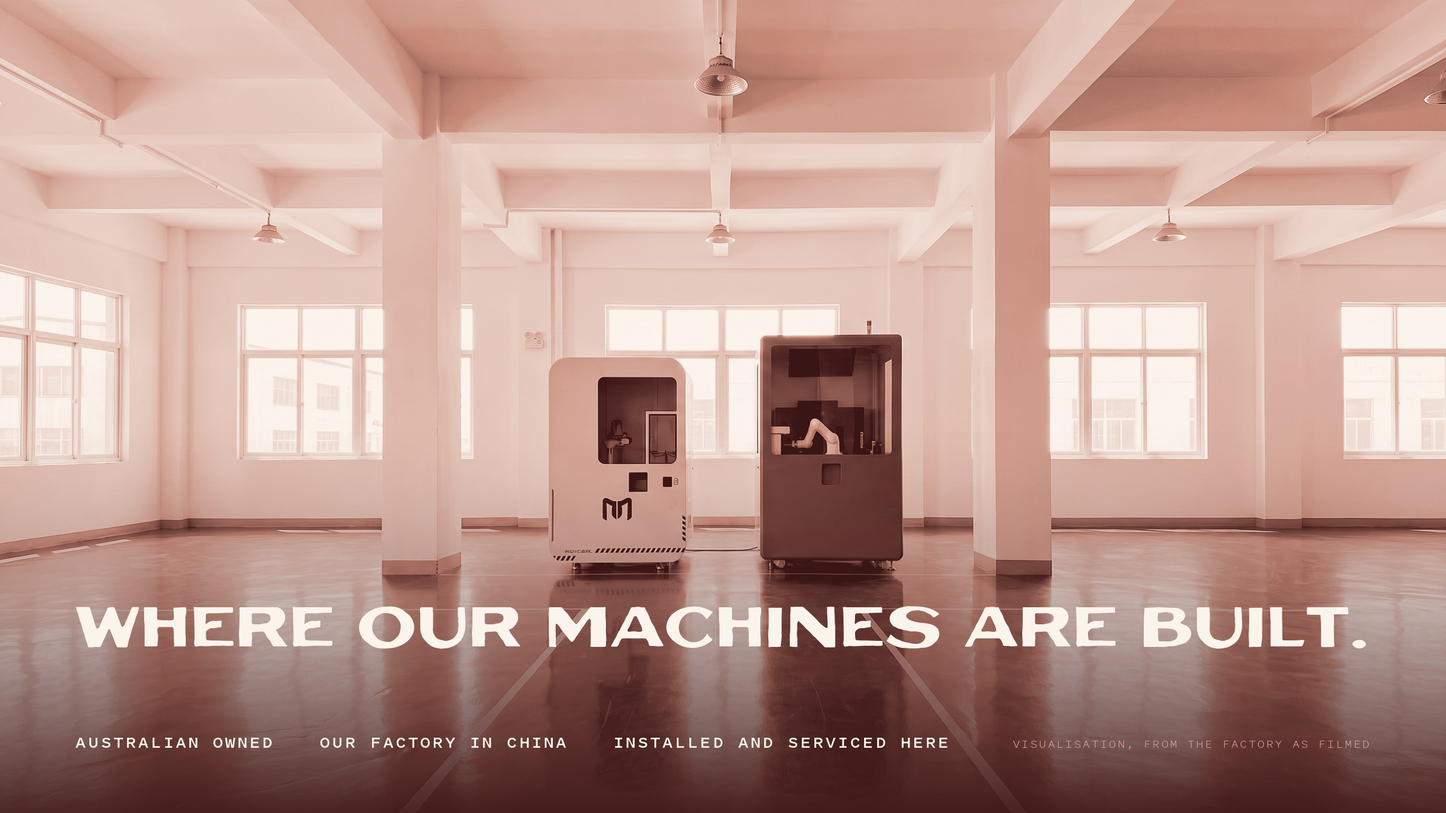
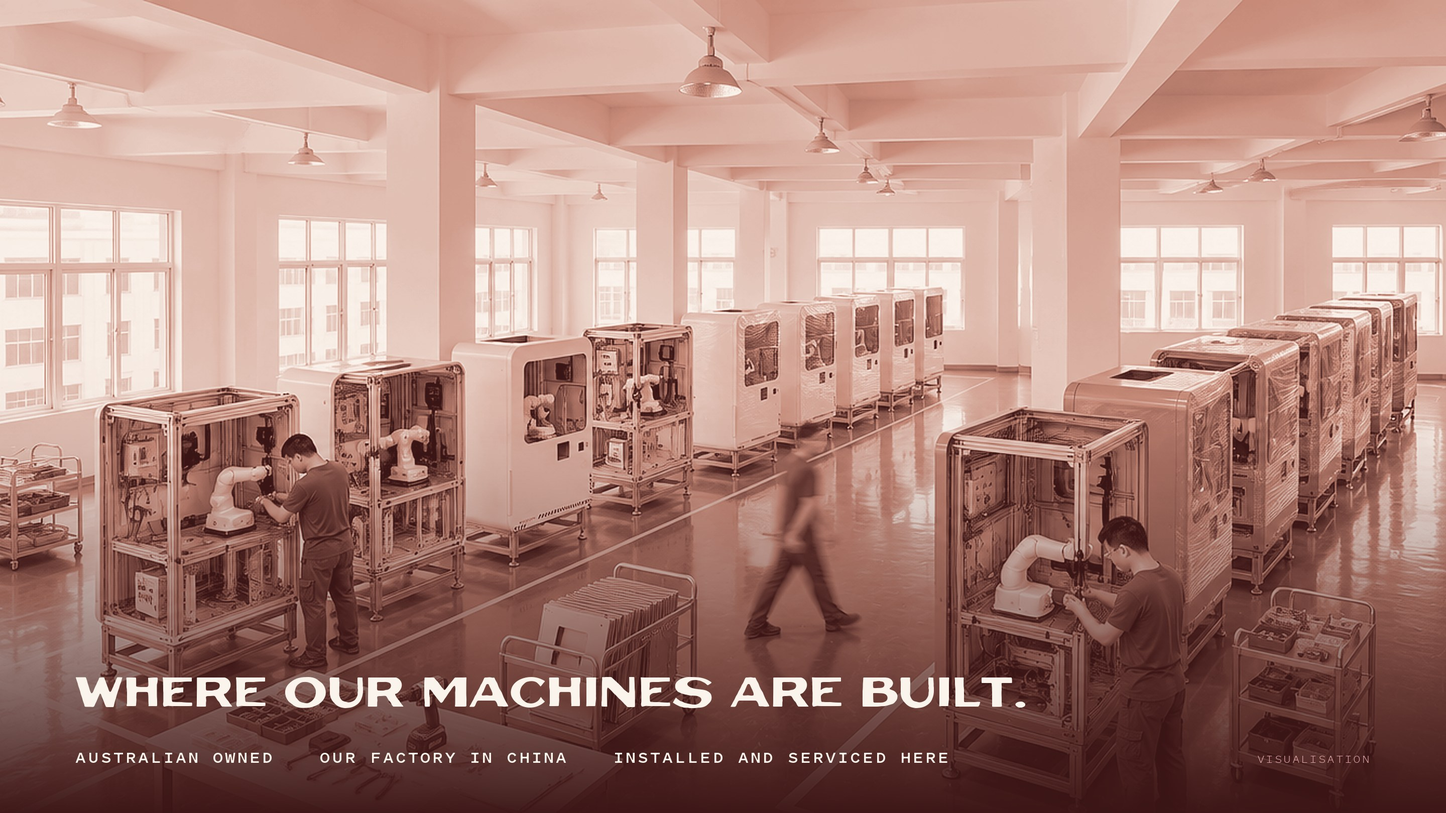
Comuna deck: the factory at work, from above
Jesse: "this style for our manufacturing slide but a bit more obviously a
factory", "full screen with a little text". Our maker's hall as filmed,
taken by gpt_image_2_6 to the same hall at work; labelled a visualisation.

diff --git a/src/comuna-slides.html b/src/comuna-slides.html
@@ -227,7 +227,7 @@
 
 <section class="stage" id="s{{i}}" aria-label="Slide {{i}}. Where our machines are built">
   <div class="slide"><div class="in full poster cm-poster" style="--ground:#3A1515">
-    <div class="plate"><img src="{{root}}img/deck/comuna/art/14-factory.jpg" width="2880" height="1620" alt="WHERE OUR MACHINES ARE BUILT, over the factory floor in Comuna's cocoa and cream, two finished machines standing on it. Australian owned. Our factory in China. Installed and serviced here. Visualisation, from the factory as filmed."></div>
+    <div class="plate"><img src="{{root}}img/deck/comuna/art/14-factory.jpg" width="2880" height="1620" alt="WHERE OUR MACHINES ARE BUILT, over our factory hall seen from above in Comuna's cocoa and cream: technicians assembling rows of robot kiosks, their panels off and arms inside. Australian owned. Our factory in China. Installed and serviced here. Visualisation."></div>
   </div></div>
 </section>
 

diff --git a/deck/comuna/index.html b/deck/comuna/index.html
@@ -700,7 +700,7 @@
 
 <section class="stage" id="s12" aria-label="Slide 12. Where our machines are built">
   <div class="slide"><div class="in full poster cm-poster" style="--ground:#3A1515">
-    <div class="plate"><img src="../../img/deck/comuna/art/14-factory.jpg" width="2880" height="1620" alt="WHERE OUR MACHINES ARE BUILT, over the factory floor in Comuna's cocoa and cream, two finished machines standing on it. Australian owned. Our factory in China. Installed and serviced here. Visualisation, from the factory as filmed."></div>
+    <div class="plate"><img src="../../img/deck/comuna/art/14-factory.jpg" width="2880" height="1620" alt="WHERE OUR MACHINES ARE BUILT, over our factory hall seen from above in Comuna's cocoa and cream: technicians assembling rows of robot kiosks, their panels off and arms inside. Australian owned. Our factory in China. Installed and serviced here. Visualisation."></div>
   </div></div>
 </section>
 
